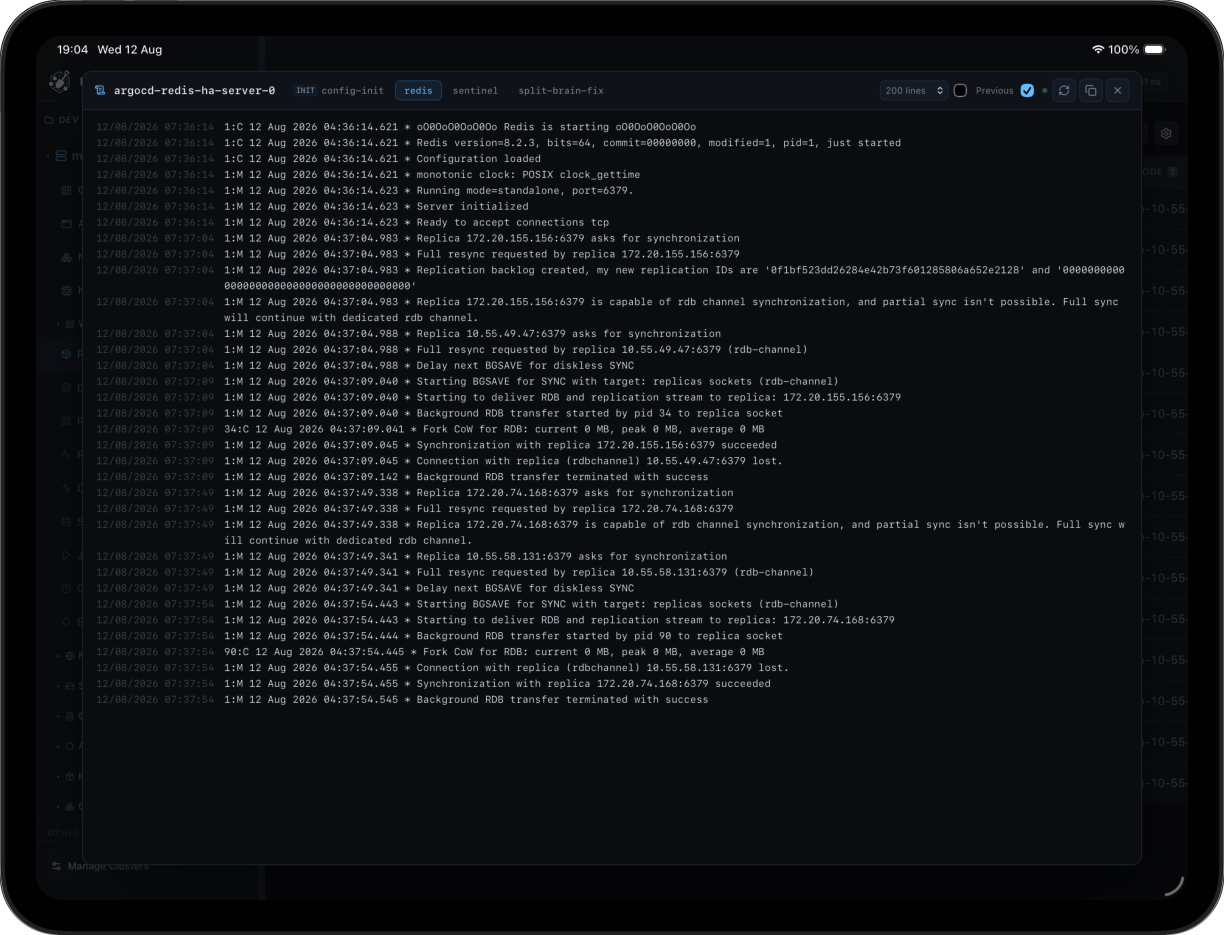
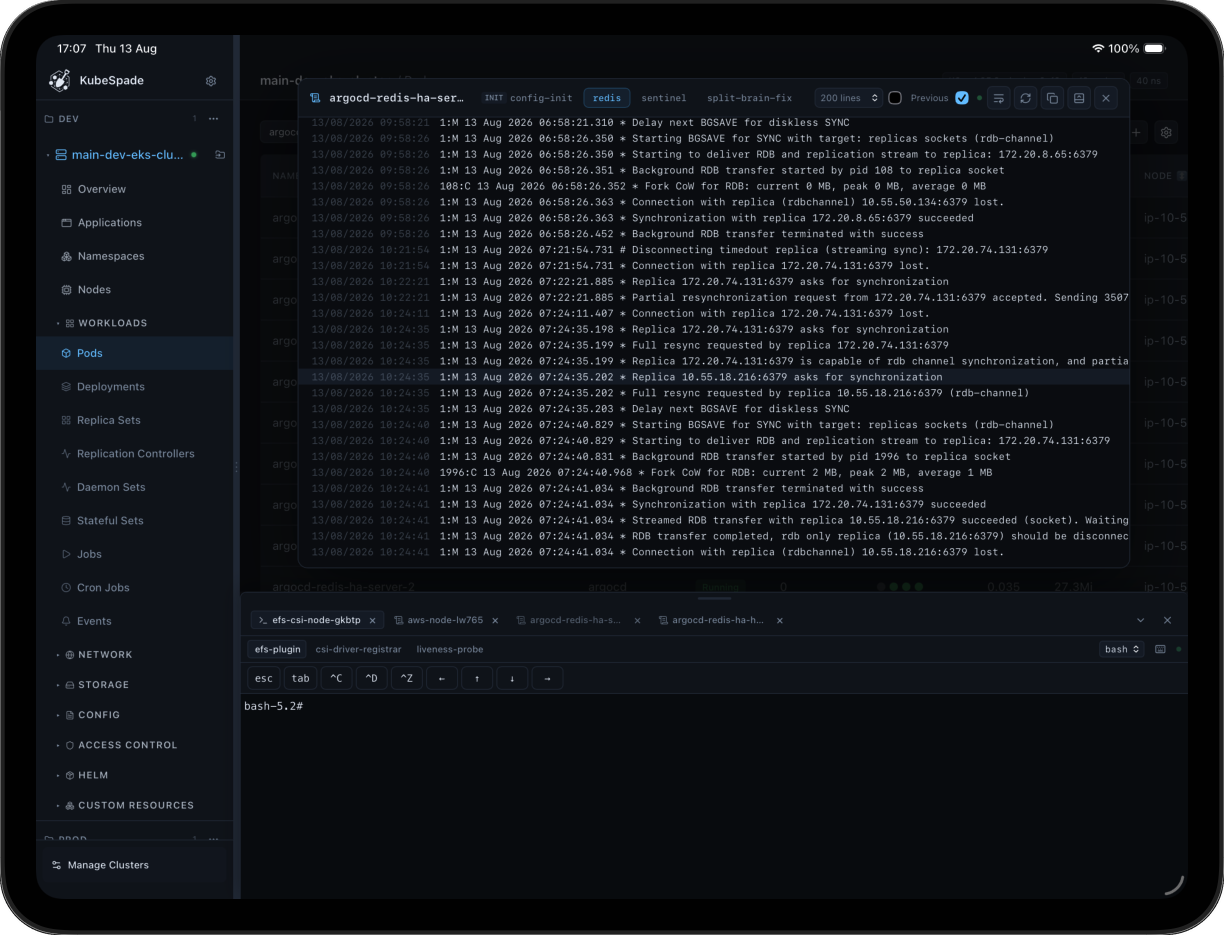
Add multi-platform screenshots and iPad marketing page

diff --git a/index.html b/index.html
@@ -340,14 +340,14 @@
           <div class="shot-copy">
             <span class="shot-tag">Logs</span>
             <h3>Stream logs per container</h3>
-            <p>Multi-container pods, previous-instance logs, tail lines, and follow mode — without leaving the app.</p>
+            <p>Open logs above the terminal — multi-container tabs, previous-instance logs, tail, and follow, without leaving the app.</p>
           </div>
           <div class="shot-media">
             <button
               type="button"
               class="shot-zoom"
               data-lightbox="assets/screenshots/03-mac-logs.png"
-              data-caption="Log viewer — multi-container streaming logs"
+              data-caption="Logs above the terminal — multi-container streaming"
               aria-label="Enlarge screenshot: log viewer"
             >
               <img
@@ -358,8 +358,8 @@
                 data-ipad="assets/screenshots/03-ipad-logs.png"
                 src="assets/screenshots/03-mac-logs.png"
                 alt="KubeSpade Kubernetes log viewer with container tabs and streaming output"
-                width="1979"
-                height="1284"
+                width="1649"
+                height="1219"
                 loading="lazy"
               />
               <span class="shot-zoom-hint">Click to enlarge</span>

diff --git a/ipad.html b/ipad.html
@@ -202,7 +202,7 @@
           <div class="shot-copy">
             <span class="shot-tag">Logs</span>
             <h3>Read logs on the go</h3>
-            <p>Multi-container tabs and previous-instance logs in a readable viewer.</p>
+            <p>Open logs above the terminal — multi-container tabs and previous-instance logs in a readable viewer.</p>
           </div>
           <div class="shot-media">
             <button type="button" class="shot-zoom shot-zoom-ipad" data-lightbox="assets/screenshots/03-ipad-logs.png" data-caption="iPad — log viewer" aria-label="Enlarge: logs">
